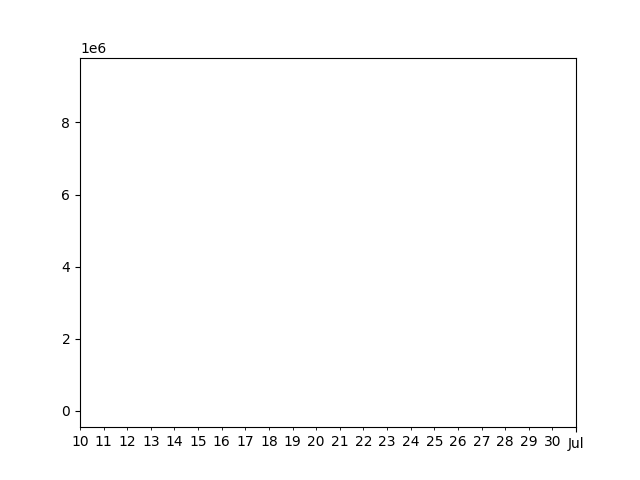
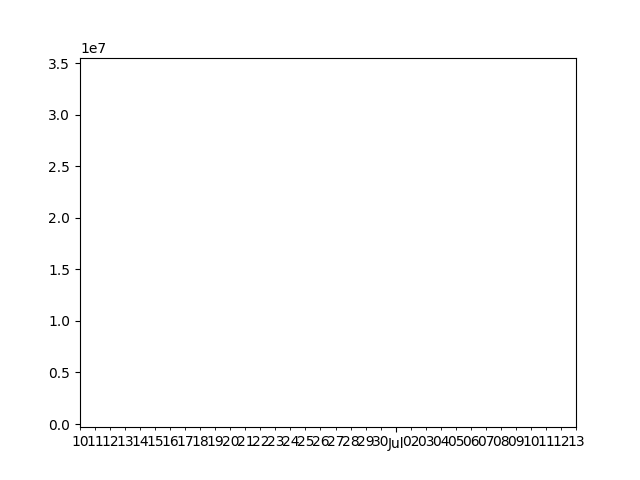
=Preprocess

diff --git a/find_contours.py b/find_contours.py
@@ -1,6 +1,8 @@
 import numpy as np
 import cv2
 import seaborn as sns
+import matplotlib
+# matplotlib.use('TkAgg')
 import matplotlib.pyplot as plt
 import os
 from math import sqrt
@@ -83,9 +85,7 @@ def BananaContours():
     for d in datetime_objects:
         filename=d.strftime("image_%d-%m-%Y_%I-%M-%S_%p.png")
         files.append(os.path.join(directory,filename))
-        # print("--",os.path.join(directory,filename))
     banana_volume_list=[]
-
     for f in files:
         # edges = canny_edge(f)
         #ret,thresh = cv2.threshold(edges,127,255,0)
@@ -105,13 +105,17 @@ def BananaContours():
         cnt_with_area =[]
         total_area = 0.0
         # /** 針對average、standard deviation去篩選contours */
-        for c in contours:
+        # for c in contours:
             # if cv2.contourArea(c)>(q1)and \
             # cv2.contourArea(c)<(area_avg+0.25*area_std)and\
             #     cv2.arcLength(c,False)<600:
-            cnt_with_area.append(c)
-            total_area += cv2.contourArea(c)
+            # cnt_with_area.append(c)
+            # total_area += cv2.contourArea(c)
 
+        c = max(contours, key = cv2.contourArea)
+        cnt_with_area.append(c)
+        total_area += cv2.contourArea(c)
+        print(len(cnt_with_area))
         # print(len(cnt_with_area))
 
         # /** 使用Q1、medina、Q3來篩選contours
@@ -134,11 +138,11 @@ def BananaContours():
         banana_volume=sqrt(avg_area)**3
         banana_volume_list.append(banana_volume)
 
-    # x = list(range(1, len(banana_volume_list)+1))
+    x = list(range(1, len(banana_volume_list)+1))
 
     x = [ i.toordinal() for i in datetime_objects ]
     y_dots = banana_volume_list
-
+    print(y_dots)
     def myfunc(x):
         return slope * x + intercept
 
@@ -158,10 +162,10 @@ def BananaContours():
     locator = mdates.DayLocator()
     ax.xaxis.set_minor_locator(locator)
 
-    ax.set_xlim([datetime(2020, 6, 10), datetime(2020, 7, 1)])
+    ax.set_xlim([datetime(2020, 6, 10), datetime(2020, 7, 13)])
 
     ax.scatter(x, y_dots)
     ax.plot(x, y_regression)
     plt.savefig("scatter.png")
 
-    plt.show()
+    # plt.show()

diff --git a/main.py b/main.py
@@ -12,7 +12,7 @@ def config_model():
     # dataset config
     parser.add_argument('--train_dataset', default='BIPED', choices=['BIPED','BSDS'])
     parser.add_argument('--test_dataset', default='CLASSIC', choices=['BIPED', 'BSDS','MULTICUE','NYUD','PASCAL','CID','DCD'])
-    parser.add_argument('--dataset_dir',default="images/original/",type=str) # default:'/opt/dataset/'
+    parser.add_argument('--dataset_dir',default="images/original",type=str) # default:'/opt/dataset/'
     parser.add_argument('--dataset_augmented', default=True,type=bool)
     parser.add_argument('--train_list',default='train_rgb.lst', type=str) # BSDS train_pair.lst, SSMIHD train_rgb_pair.lst/train_rgbn_pair.lst
     parser.add_argument('--test_list', default='test_pair.lst',type=str) # for NYUD&BSDS:test_pair.lst, ssmihd: msi_test.lst/vis_test.lst

diff --git a/preprocess.py b/preprocess.py
@@ -21,6 +21,7 @@ def ImgPreprocess(path):
                 ##須針對不同的資料來源進行調整，未來可用yolo補齊
                 # img = img[300:850,620:1170] #照片
                 img = img[200:1000,400:1200] #照片
+                img = img[500:1000,500:1000]#banana
                 # img=img[500:1400,1080:1500]#影片截圖
                 # res = cv2.resize(img,(512, 512), interpolation = cv2.INTER_CUBIC)
                 cv2.imwrite(os.path.join(upper_path,"generated/") + os.path.splitext(os.path.basename(in_filename))[0] + ".png",img)

diff --git a/utls/dataset_manager.py b/utls/dataset_manager.py
@@ -1261,7 +1261,7 @@ def open_images(file_list):
 def get_single_image(args,file_path=None):
 
     if file_path is None:
-        img_dir = "images/generated/" if args.dataset_dir is None else os.path.join(args.dataset_dir, args.test_dataset)
+        img_dir = "images/generated/" 
         file_list = os.listdir(img_dir)
         data =[]
         for i in file_list:
